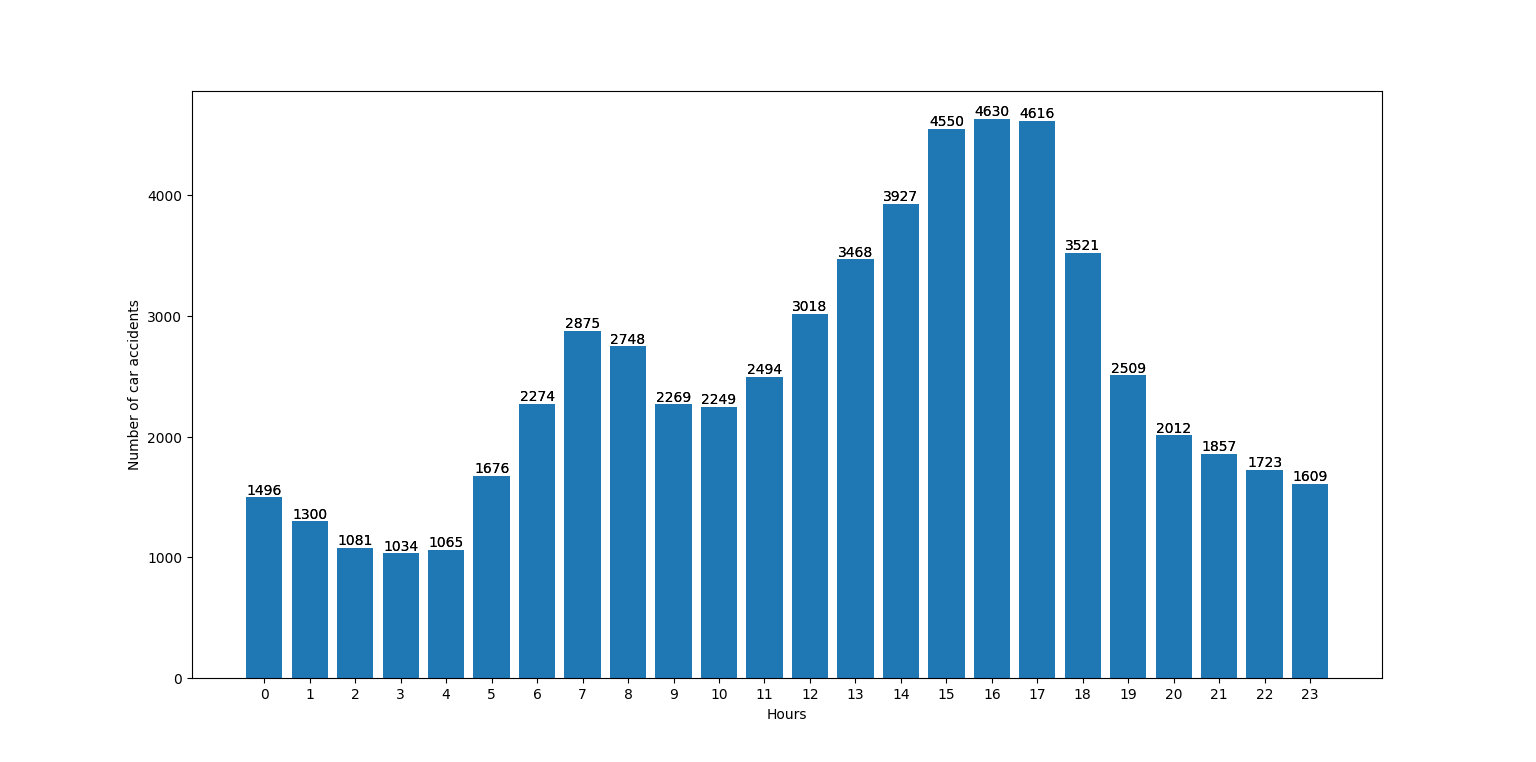
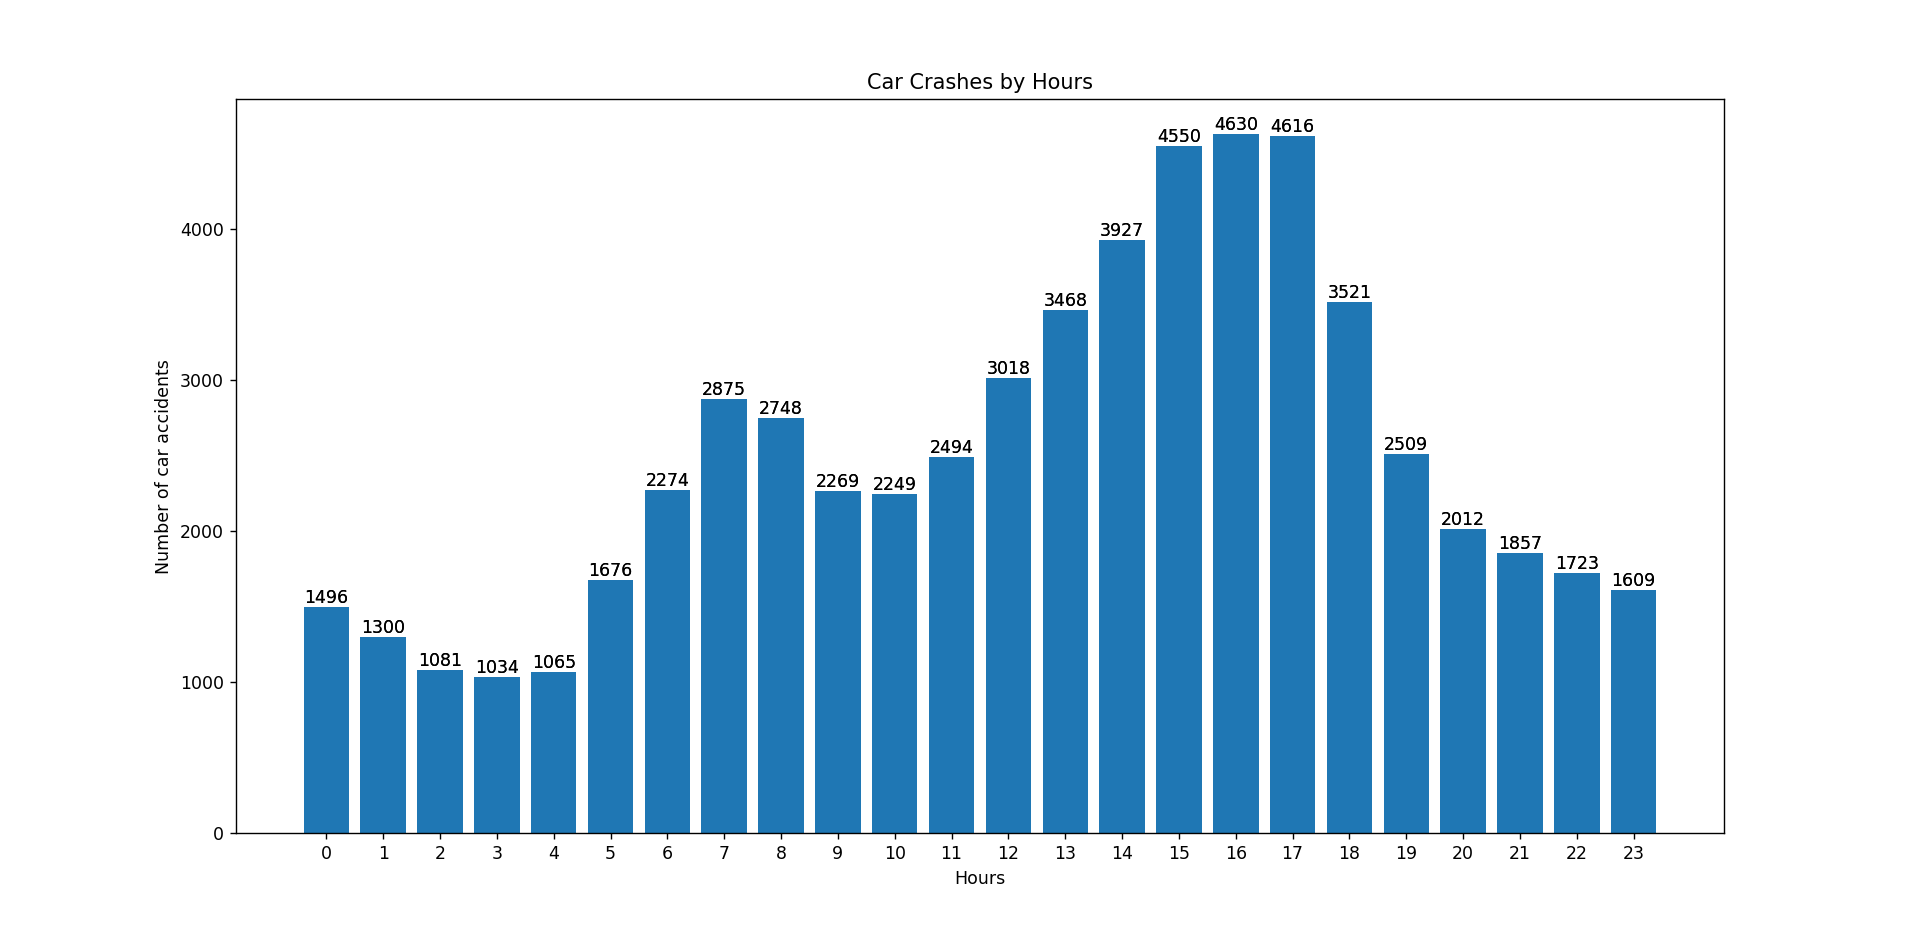
Added statistics page and graph for car crashes by weather

diff --git a/mysite/hello/templates/hello/crashes_by_month.html b/mysite/hello/templates/hello/crashes_by_month.html
@@ -31,6 +31,9 @@
                 <li>
                     <a href ="/hello/modify/">Modify</a>
                 </li>
+                <li>
+                    <a href ="/hello/crashes_by_month/">Analytics</a>
+                </li>
             </ul>
         </nav>
     
@@ -42,6 +45,9 @@
             <img src="{% static '/images/hours_count.png' %}" alt="Crashes by hour">
         </div>
 
+        <div class = image-container>
+            <img src="{% static '/images/crashes_by_weather.png' %}" alt="Crashes by weather">
+        </div>
     </body>
 
     

diff --git a/mysite/hello/templates/hello/welcome.html b/mysite/hello/templates/hello/welcome.html
@@ -31,6 +31,9 @@
                 <li>
                     <a href ="/hello/modify/">Modify</a>
                 </li>
+                <li>
+                    <a href ="/hello/crashes_by_month/">Analytics</a>
+                </li>
             </ul>
         </nav>
         <h1 class = "first-header">

diff --git a/mysite/hello/templates/hello/search.html b/mysite/hello/templates/hello/search.html
@@ -30,6 +30,9 @@
                 <li>
                     <a href ="/hello/modify/">Modify</a>
                 </li>
+                <li>
+                    <a href ="/hello/crashes_by_month/">Analytics</a>
+                </li>
             </ul>
         </nav>
         <div id = "wrapper">

diff --git a/mysite/hello/templates/hello/modify.html b/mysite/hello/templates/hello/modify.html
@@ -24,6 +24,9 @@
                 <li>
                     <a href ="/hello/modify/">Modify</a>
                 </li>
+                <li>
+                    <a href ="/hello/crashes_by_month/">Analytics</a>
+                </li>
             </ul>
         </nav>
 

diff --git a/mysite/hello/graph_plot.py b/mysite/hello/graph_plot.py
@@ -55,3 +55,54 @@ if __name__ == '__main__':
 	plt.ylabel('Amount of crashes per month')
 	plt.title('Car Crashes per month 2016 - 2021')
 	plt.show()
+
+	# #getting plot of the car accident counts by the hour#########################################################################################
+	# hours = list(range(0, 24))
+	
+	# count = [0] * 24
+	# for row in accidents.list:
+	# 	hour = row.start_time.split(" ")[1].split(":")[0]
+	# 	count[int(hour)] += 1
+		
+		
+
+	# fig, ax = plt.subplots()
+	# bars = ax.bar(hours, count)
+	# ax.bar_label(bars)
+	# ax.set_xticks(hours)
+
+	# for bars in ax.containers:
+	# 	ax.bar_label(bars)
+	# plt.xlabel("Hours")
+	# plt.ylabel("Number of car accidents")
+	# plt.title('Car Crashes by Hours')
+	# plt.show()
+
+# #this snippet is to see all of the possible weather conditions#####################################################################################
+# allWeather = []
+# for row in accidents.list:
+# 	allWeather.append(row.weather_condition)
+# uniqueWeather = set(allWeather)
+# print(uniqueWeather)
+
+#creates a graph of accident counts for each of the listed weather conditions#####################################################################
+
+# weathers = ['Clear', 'Fair', 'Scattered Clouds', 'Smoke', 'Fog',  'Mist', 'Rain', 'Heavy Rain',  'Thunder', 'Snow']
+# counts = [0] * len(weathers)
+# for row in accidents.list:
+# 	for i in range (0, len(weathers)):
+# 		if(weathers[i] == row.weather_condition):
+# 			counts[i] += 1
+# 			break
+
+# fig, ax = plt.subplots()
+# bars = ax.bar(weathers, counts)
+# ax.bar_label(bars)
+
+
+# for bars in ax.containers:
+# 	ax.bar_label(bars)
+# plt.xlabel("Weather conditions")
+# plt.ylabel("Number of car accidents")
+# plt.title('Car Crashes by Weather Condition')
+# plt.show()	
